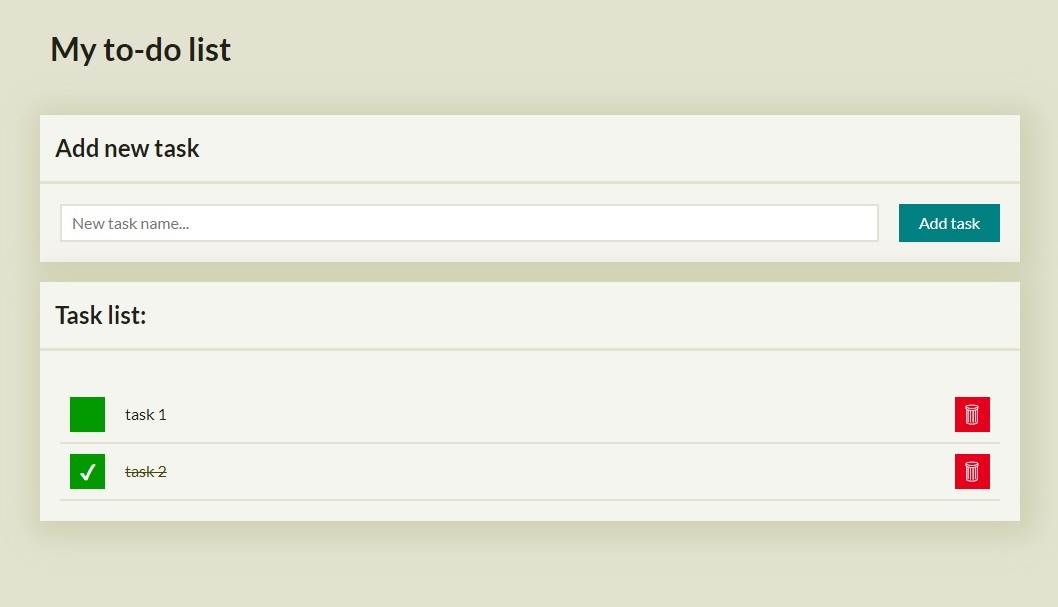
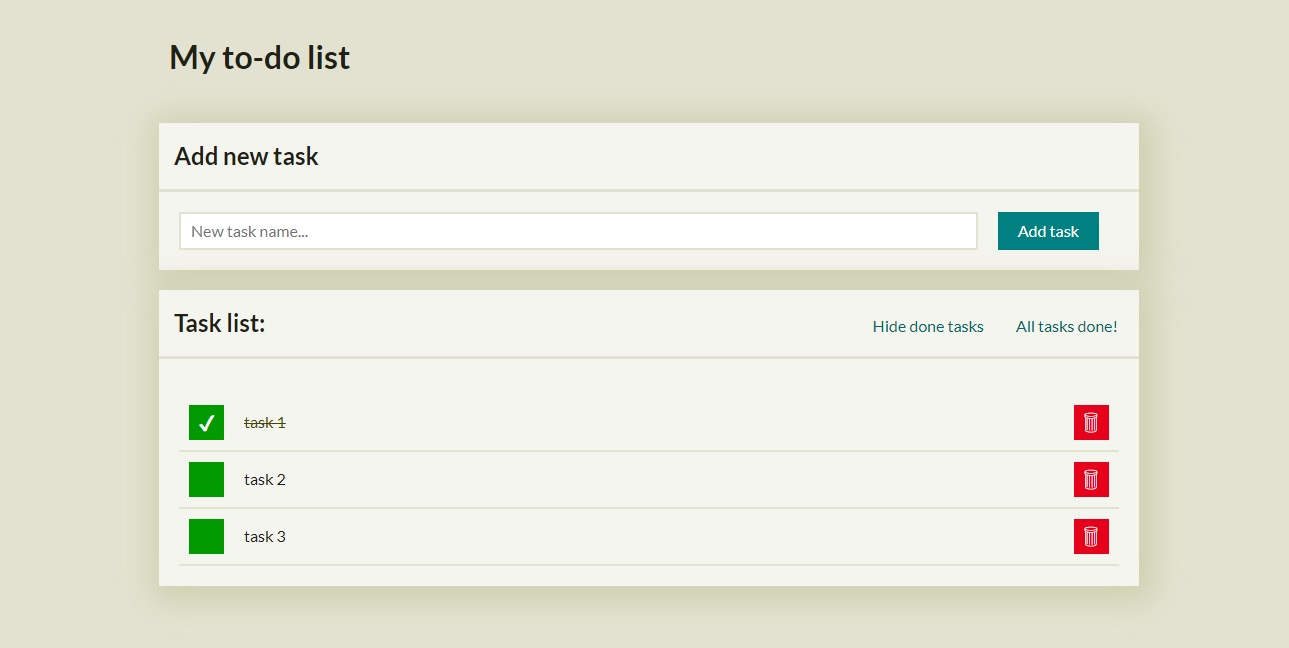
README.md updated

Changed region(s): [[0.0312, 0.1779, 0.9669, 0.9193], [0.0312, 0.0593, 0.2807, 0.1186]]

diff --git a/README.md b/README.md
@@ -6,12 +6,11 @@ https://marcin-stachura.github.io/to-do-list/
 
 ## Description
 
-<img src=".\images\listscreenshot.jpg" width="400" alt="">
+<img src=".\images\listscreenshot.jpg" width="600" alt="">
 
-A simple to-do list. The functionality includes adding new tasks, toggling the added ones as done/not done, and deleting them.
+A simple to-do list. The functionality includes adding new tasks, toggling the added ones as done/not done, and deleting them. When at least one task is added, two buttons show up: one for showing/hiding all tasks that are done, and one for marking all tasks as done.
 
 Technologies used:
 - HTML
-- CSS
+- CSS (BEM methodology)
 - Javascript
-- BEM methodology
